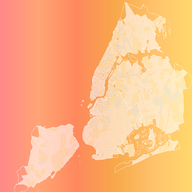
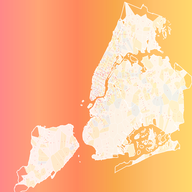
🔥 CRISP SQUARE MAP - Enhanced Visibility & Aspect Ratio
✅ Square aspect ratio (12×12) perfect for social sharing
✅ Crisp zone lines: linewidth increased 0.3→0.8 for visibility
✅ Bold boundaries: NYC outline 1.5→2.5 linewidth, 0.7→0.9 alpha
✅ Less faint colors: polygon alpha increased 0.6→0.85
✅ Enhanced camera dots: size 3→4, better edge definition
✅ Professional crisp aesthetic with peachy sunset gradient

🎯 Visual Improvements:
- Sharp, visible tessellation boundaries
- Vibrant but subtle borough coloring
- Square format ideal for avatars/icons
- High contrast for readability

diff --git a/create_proper_nyc_map.py b/create_proper_nyc_map.py
@@ -151,8 +151,8 @@ def create_constrained_voronoi_tessellation():
     # Create Voronoi diagram
     vor = Voronoi(points)
     
-    # Create the figure with clean aesthetic design
-    fig, ax = plt.subplots(1, 1, figsize=(16, 12))
+    # Create the figure with square aspect ratio
+    fig, ax = plt.subplots(1, 1, figsize=(12, 12))
     
     # Create beautiful peachy sunset gradient background
     gradient = np.linspace(0, 1, 256).reshape(1, -1)
@@ -167,20 +167,20 @@ def create_constrained_voronoi_tessellation():
     # Apply gradient background
     ax.imshow(gradient, aspect='auto', cmap=cmap, extent=(-74.3, -73.7, 40.5, 40.92), alpha=0.8)
     
-    # Plot NYC boundaries with subtle styling
+    # Plot NYC boundaries with crisp styling
     if geojson_data:
         for feature in geojson_data['features']:
             if feature['geometry']['type'] == 'Polygon':
                 coords = feature['geometry']['coordinates'][0]
-                polygon = MplPolygon(coords, fill=False, edgecolor='white', linewidth=1.5, alpha=0.7)
+                polygon = MplPolygon(coords, fill=False, edgecolor='white', linewidth=2.5, alpha=0.9)
                 ax.add_patch(polygon)
             elif feature['geometry']['type'] == 'MultiPolygon':
                 for poly_coords in feature['geometry']['coordinates']:
                     coords = poly_coords[0]
-                    polygon = MplPolygon(coords, fill=False, edgecolor='white', linewidth=1.5, alpha=0.7)
+                    polygon = MplPolygon(coords, fill=False, edgecolor='white', linewidth=2.5, alpha=0.9)
                     ax.add_patch(polygon)
     
-    # Create subtle color palette for boroughs
+    # Create more vibrant color palette for boroughs
     borough_colors = {
         'MN': '#FFFFFF',  # White
         'BK': '#FFF8DC',  # Cream  
@@ -194,7 +194,7 @@ def create_constrained_voronoi_tessellation():
         'Staten Island': '#FFFACD'
     }
     
-    # Plot CONSTRAINED Voronoi regions with subtle styling
+    # Plot CONSTRAINED Voronoi regions with crisp styling
     clipped_cells = 0
     total_cells = 0
     
@@ -221,18 +221,18 @@ def create_constrained_voronoi_tessellation():
             borough = cameras[i].get('borough', 'Unknown')
             color = borough_colors.get(borough, color)
         
-        # Create and add CLIPPED polygon with subtle styling
+        # Create and add CLIPPED polygon with crisp styling
         polygon = MplPolygon(clipped_coords, 
                            facecolor=color, 
                            edgecolor='white', 
-                           linewidth=0.3,
-                           alpha=0.6)
+                           linewidth=0.8,
+                           alpha=0.85)
         ax.add_patch(polygon)
     
     # Plot camera points as small elegant dots
     camera_lngs = [cam['lng'] for cam in cameras]
     camera_lats = [cam['lat'] for cam in cameras]
-    ax.scatter(camera_lngs, camera_lats, c='#FF4444', s=3, alpha=0.9, zorder=5, edgecolors='white', linewidths=0.2)
+    ax.scatter(camera_lngs, camera_lats, c='#FF4444', s=4, alpha=0.95, zorder=5, edgecolors='white', linewidths=0.3)
     
     # Set NYC bounds
     ax.set_xlim(-74.3, -73.7)
